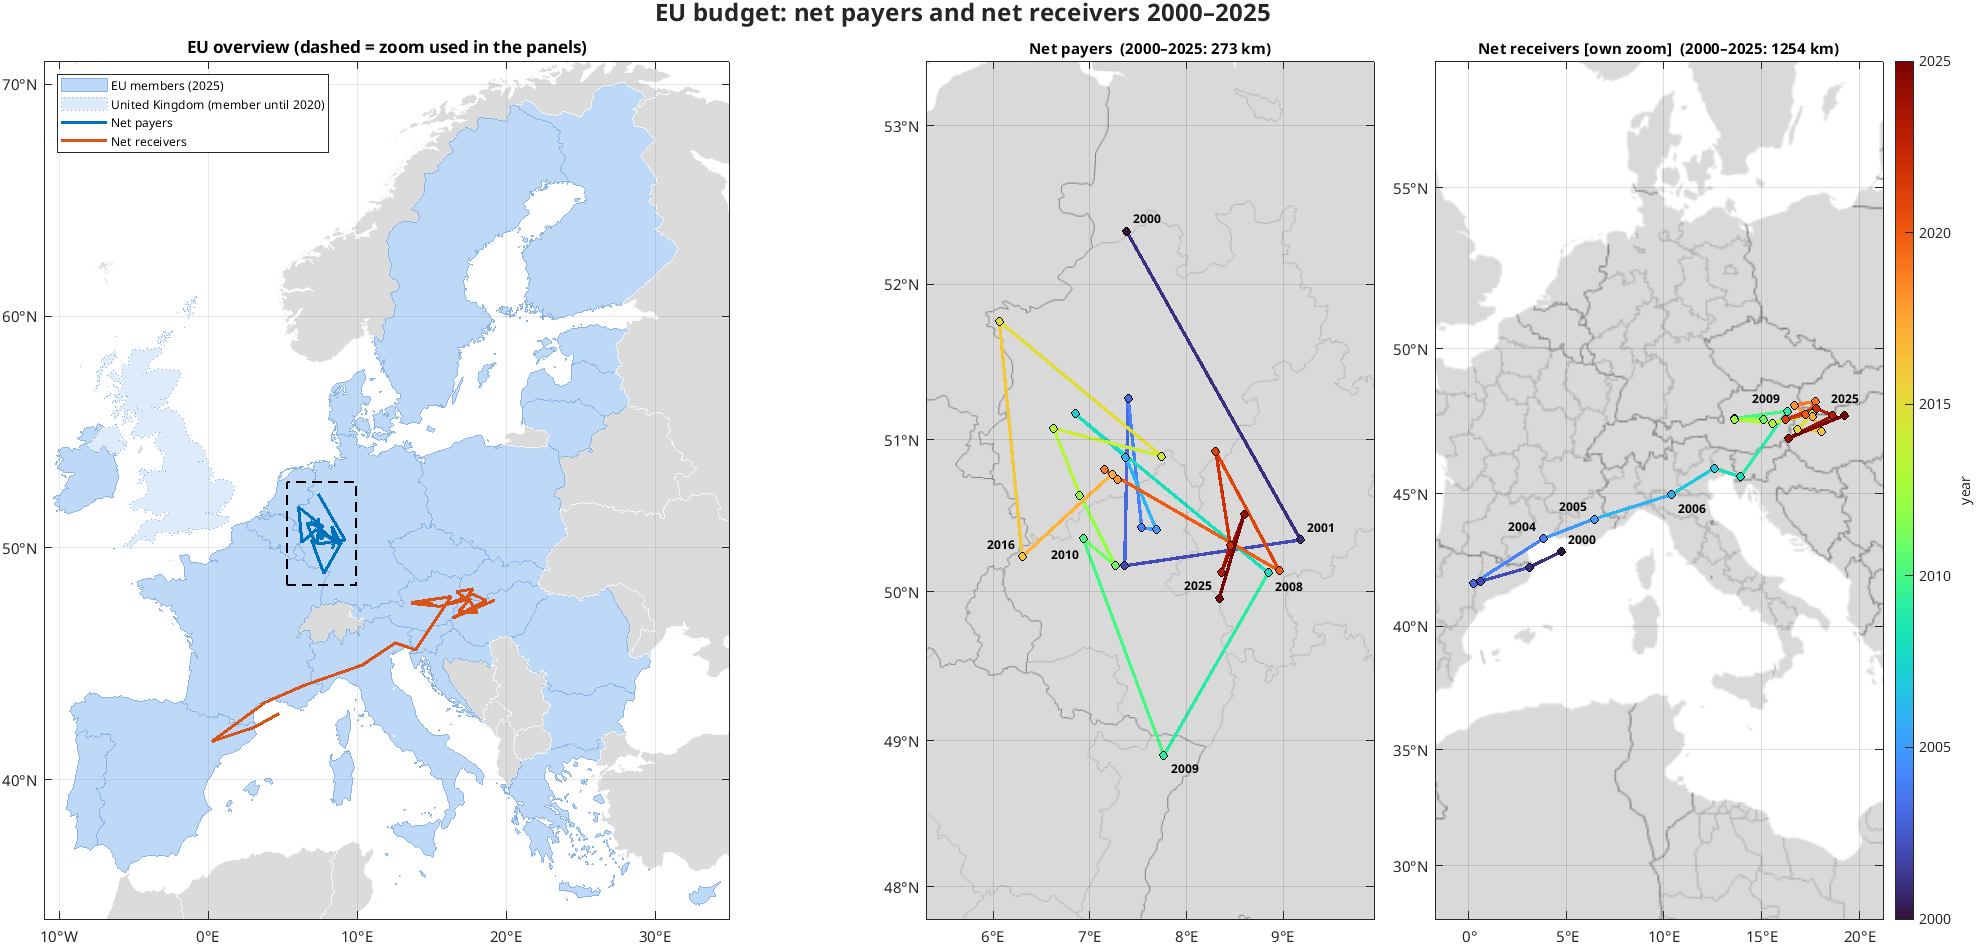
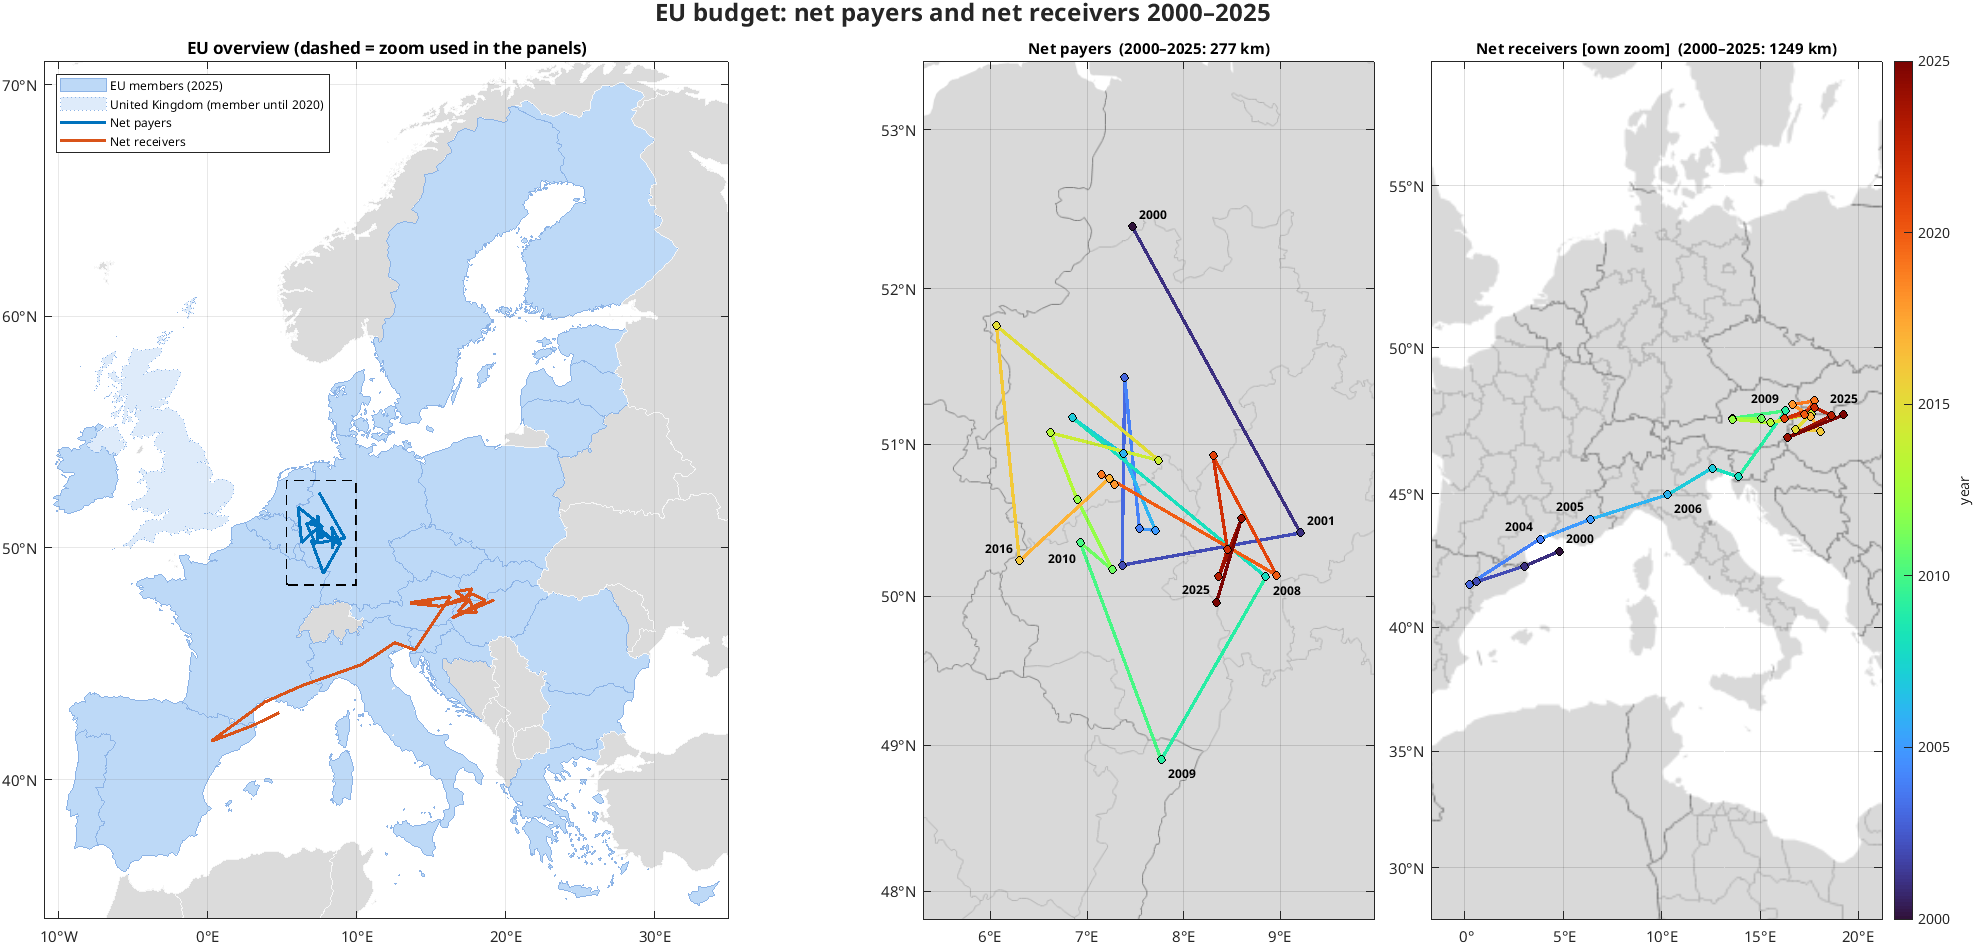
fix: budget rescaling uses contributing members only
Candidate countries have pre-accession spending in the Commission workbook
(e.g. Poland 2000-2003) but pay no national contribution. They entered the
rescaling of contributions and slightly inflated the payers' balances.
Results change by a few km and EUR 0.2-0.3 bn in 2000-2004.

diff --git a/src/eu_budget_balance.m b/src/eu_budget_balance.m
@@ -63,7 +63,9 @@ for s = sheetnames(file)'
     rG = find(startsWith(L1, "Gross National Income") | startsWith(L2, "Gross National Income"), 1);
     gni = num(C(rG, cols));
 
-    ok = spend ~= 0 | contrib ~= 0;                     % not a member in that year
+    % only countries that pay a national contribution, i.e. members; candidate
+    % countries have pre-accession spending but must not enter the rescaling
+    ok = contrib ~= 0;
     k = sum(spend(ok)) / sum(contrib(ok));
     obb = spend - contrib * k;
     y = str2double(regexp(s, '\d{4}', 'match', 'once'));
